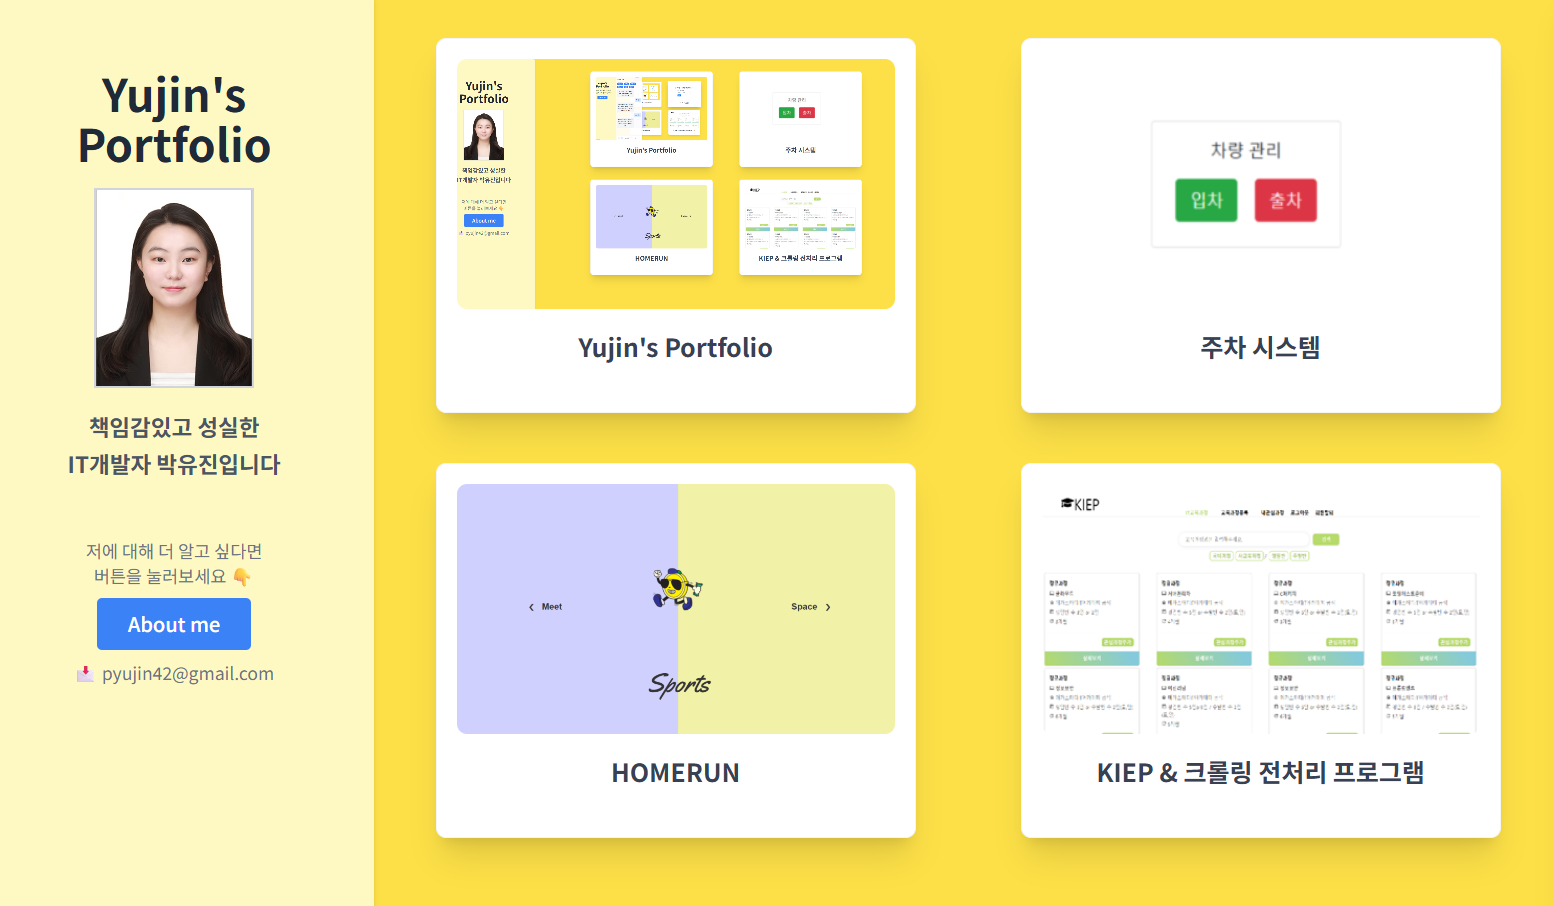
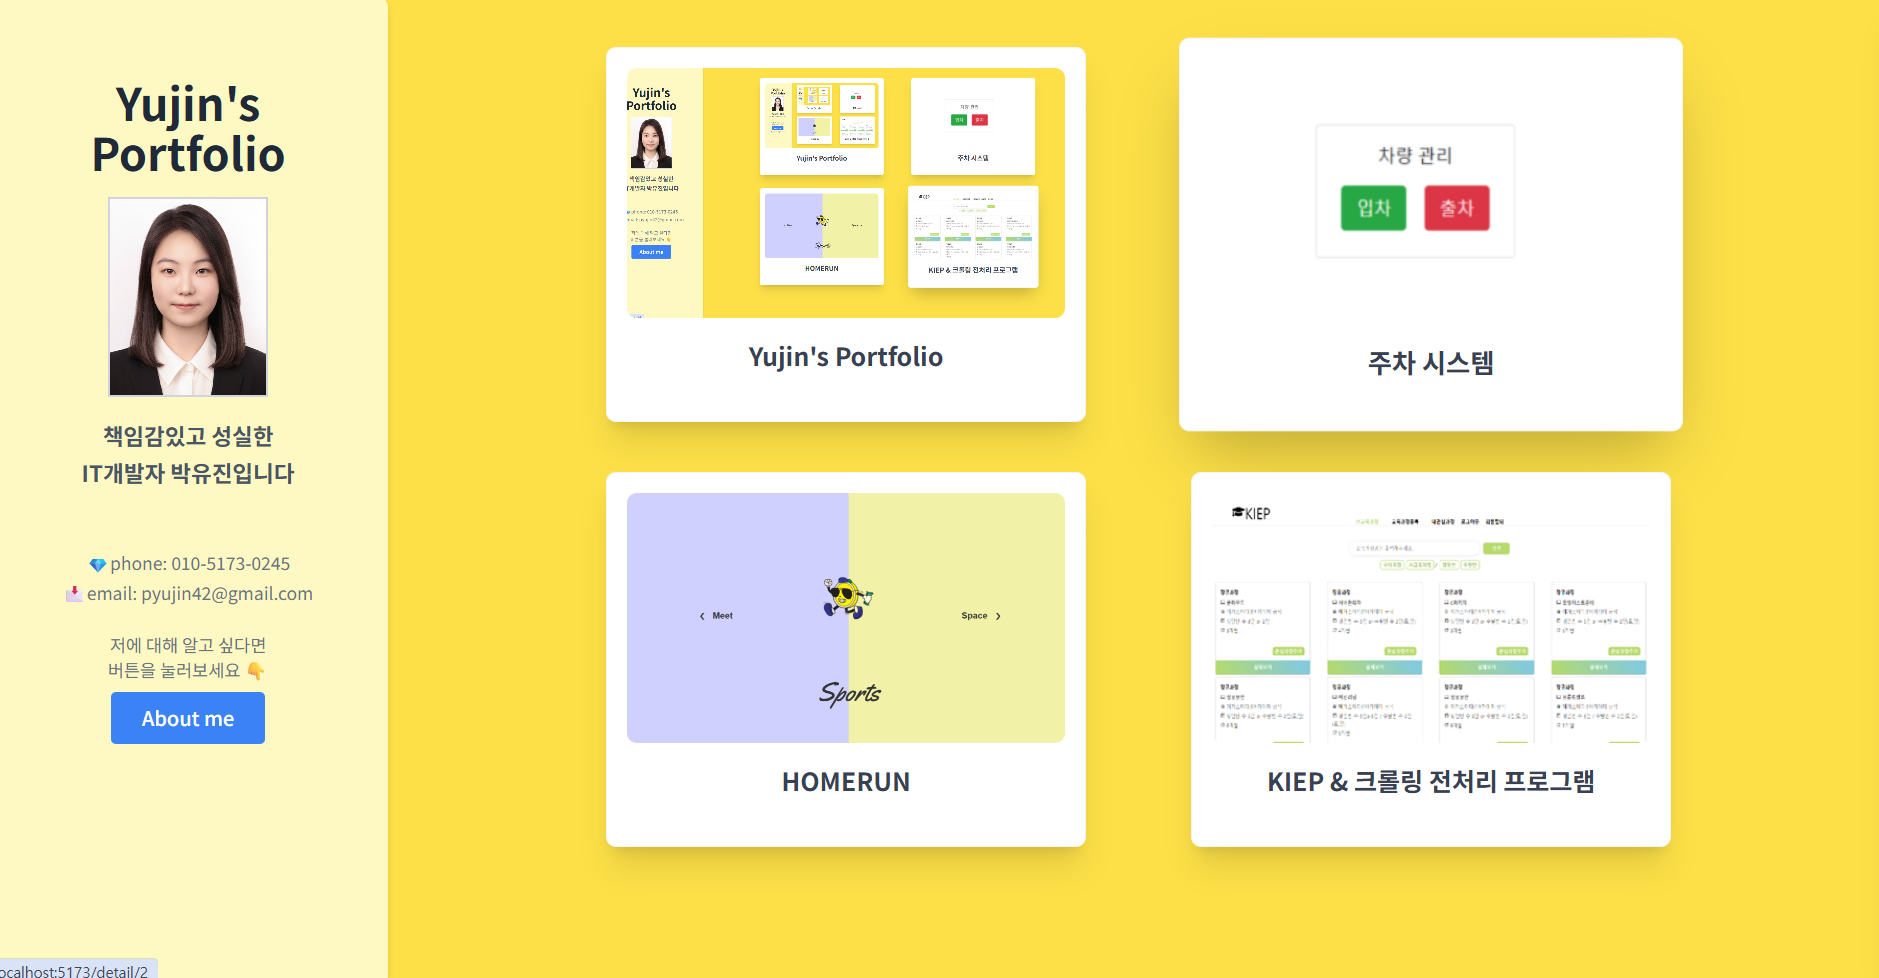
디자인 변경

diff --git a/src/components/ProfileSection.jsx b/src/components/ProfileSection.jsx
@@ -1,37 +1,51 @@
 function ProfileSection({ toggleChatbot }) {
   return (
     <div className=" bg-yellow-100 p-6 rounded-lg shadow-md z-20 h-screen">
-      <h1 className="text-4xl font-bold text-gray-800 mb-4 mt-10 text-center">
+      <h1 className="md:mt-5 text-4xl font-bold text-gray-800 mb-4 text-center">
         Yujin's Portfolio
       </h1>
 
-      <div className="flex justify-center mb-4">
+      <div className="flex justify-center mb-2 md:mt-10">
         <img
-          src="/public/imgs/yujin.jpg"
+          src="/public/imgs/yujin2.jpg"
           alt="Yujin Profile"
           className="w-32 h-40 rounded-none object-cover border-2 border-gray-300"
         />
       </div>
 
-      <p className="text-lg text-gray-600 mb-4 text-center leading-relaxed font-semibold">
+      <p className="text-lg md:mt-5 text-gray-800 text-center leading-relaxed font-semibold">
         책임감있고 성실한<br />
-        IT개발자 박유진입니다 <br />
+        백엔드 개발자 박유진입니다 <br />
         <br />
       </p>
 
-      <div className="flex flex-col items-center space-y-2">
-        <span className="text-sm text-gray-500">저에 대해 더 알고 싶다면 <br /> 버튼을 눌러보세요 👇</span>
+    
+
+      <div className="md:mt-3 mb-5 ml-6 text-md text-left text-gray-600 grid grid-cols-[90px_1fr] gap-x-2">
+        {/* <span className="text-sm text-gray-500 mt-8">간단 소개: 책임감 있고 성실한 IT개발자 입니다.</span> <br /> */}
+        <span className="mt-3 font-bold">경험 및 경력</span> 
+        <span className="mt-3">: 웹 개발, 클라우드 관련 교육 수료, 1년간 실무 경험 보유</span>
+        <span className="mt-5 font-bold">주요 기술</span> 
+        <span className="mt-5">: Python, JS, FastAPI, MySQL, Docker, AWS, GitHub 등</span>
+        <span className="mt-5 font-bold">💎Phone</span> 
+        <span className="mt-5">: 010-5173-0245</span>
+        <span className="mt-5 font-bold">📩Email</span> 
+        <span className="mt-5">: pyujin42@gmail.com</span>
+      </div>
+
+      <div className="flex flex-col items-center space-y-2 md:mt-10">
         <button
           onClick={toggleChatbot}
           className="px-6 py-2 bg-blue-500 text-white rounded hover:bg-blue-600"
         >
           About me
         </button>
-        <span className="text-sm text-gray-500 mt-8">📩 pyujin42@gmail.com</span>
+        <span className="text-sm text-gray-500">☝저에 대해 더 알고 싶다면 'About me'를 눌러보세요</span>
         <br />
-        <div className="mt-50 text-center text-gray-700 text-sm md:hidden">
-          ⬇ 아래로 스크롤해서 프로젝트를 확인해보세요!
-        </div>
+      </div>
+
+      <div className="mt-50 text-sm text-center text-gray-700 text-sm md:hidden">
+        ⬇ 아래로 스크롤해서 프로젝트를 확인해보세요!
       </div>
 
 

diff --git a/src/components/Footer.jsx b/src/components/Footer.jsx
@@ -3,8 +3,21 @@ import React from 'react';
 const Footer = () => {
   return (
     <footer className="w-full bg-white text-center">
-      <p className="text-gray-500 text-sm mt-5 mb-5">
-        © 2025 Yujin's Portfolio. All rights reserved.
+      <p className="text-gray-500 text-sm mt-5 mb-7">
+        © 2025 Yujin's Portfolio. All rights reserved. <br />
+        Icon by &nbsp;
+        <a href="https://www.flaticon.com/authors/najmunnahar" 
+          class="text-blue-600 hover:text-blue-800 underline"
+          target="_blank" rel="noopener noreferrer">
+          NajmunNahar&nbsp;&nbsp;
+        </a> 
+        from &nbsp;
+        <a href="https://www.flaticon.com/" 
+          class="text-blue-600 hover:text-blue-800 underline"
+          target="_blank" rel="noopener noreferrer">
+          Flaticon
+        </a>
+
       </p>
     </footer>
   );

diff --git a/src/components/Chatbot.jsx b/src/components/Chatbot.jsx
@@ -41,7 +41,7 @@ function Chatbot({ chatbotOpen, toggleChatbot }) {
     <div
       className={`${
     chatbotOpen ? 'translate-x-0' : 'translate-x-full'
-  } transition-transform duration-700 ease-out fixed top-0 right-0 w-[320px] h-screen bg-white/90 shadow-xl p-4 flex flex-col z-50`}
+  } transition-transform duration-700 ease-out fixed top-0 right-0 w-[320px] md:w-[400px] h-screen bg-white/90 shadow-xl p-4 flex flex-col z-50`}
     >
       <div className="flex justify-between items-center mb-4">
         <h3 className="text-lg font-semibold text-gray-800">About Me</h3>

diff --git a/src/pages/Home.jsx b/src/pages/Home.jsx
@@ -10,11 +10,11 @@ function Home() {
   return (
 
     <main className="h-screen flex flex-col md:flex-row relative">
-      <div className="w-full md:w-[320px] z-20">
+      <div className="w-full md:w-[400px] z-20">
         <ProfileSection toggleChatbot={toggleChatbot} />
       </div>
 
-      <div className="flex-1 z-10 bg-yellow-300">
+      <div className="flex-1 z-10 bg-yellow-300 pt-10">
         <ProjectList />
       </div>
 

diff --git a/index.html b/index.html
@@ -2,7 +2,7 @@
 <html lang="en">
   <head>
     <meta charset="UTF-8" />
-    <link rel="icon" type="image/svg+xml" href="/vite.svg" />
+    <link rel="icon" type="image/svg+xml" href="/smile2.png" />
     <meta name="viewport" content="width=device-width, initial-scale=1.0" />
     <title>Yujin's Portfolio</title>
   </head>
